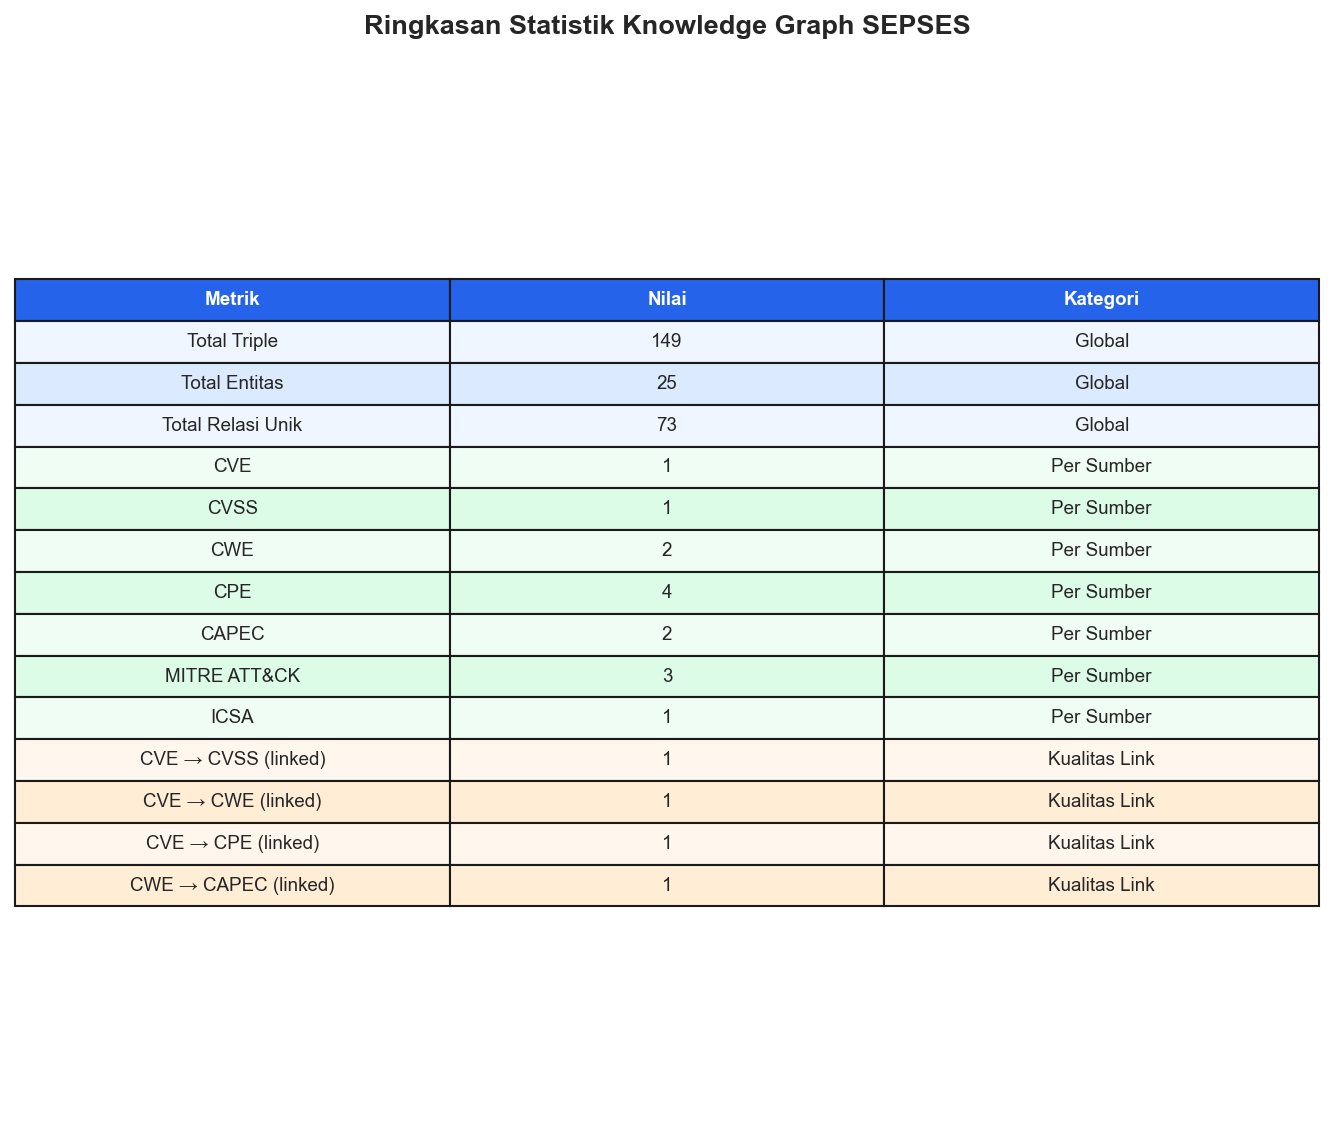
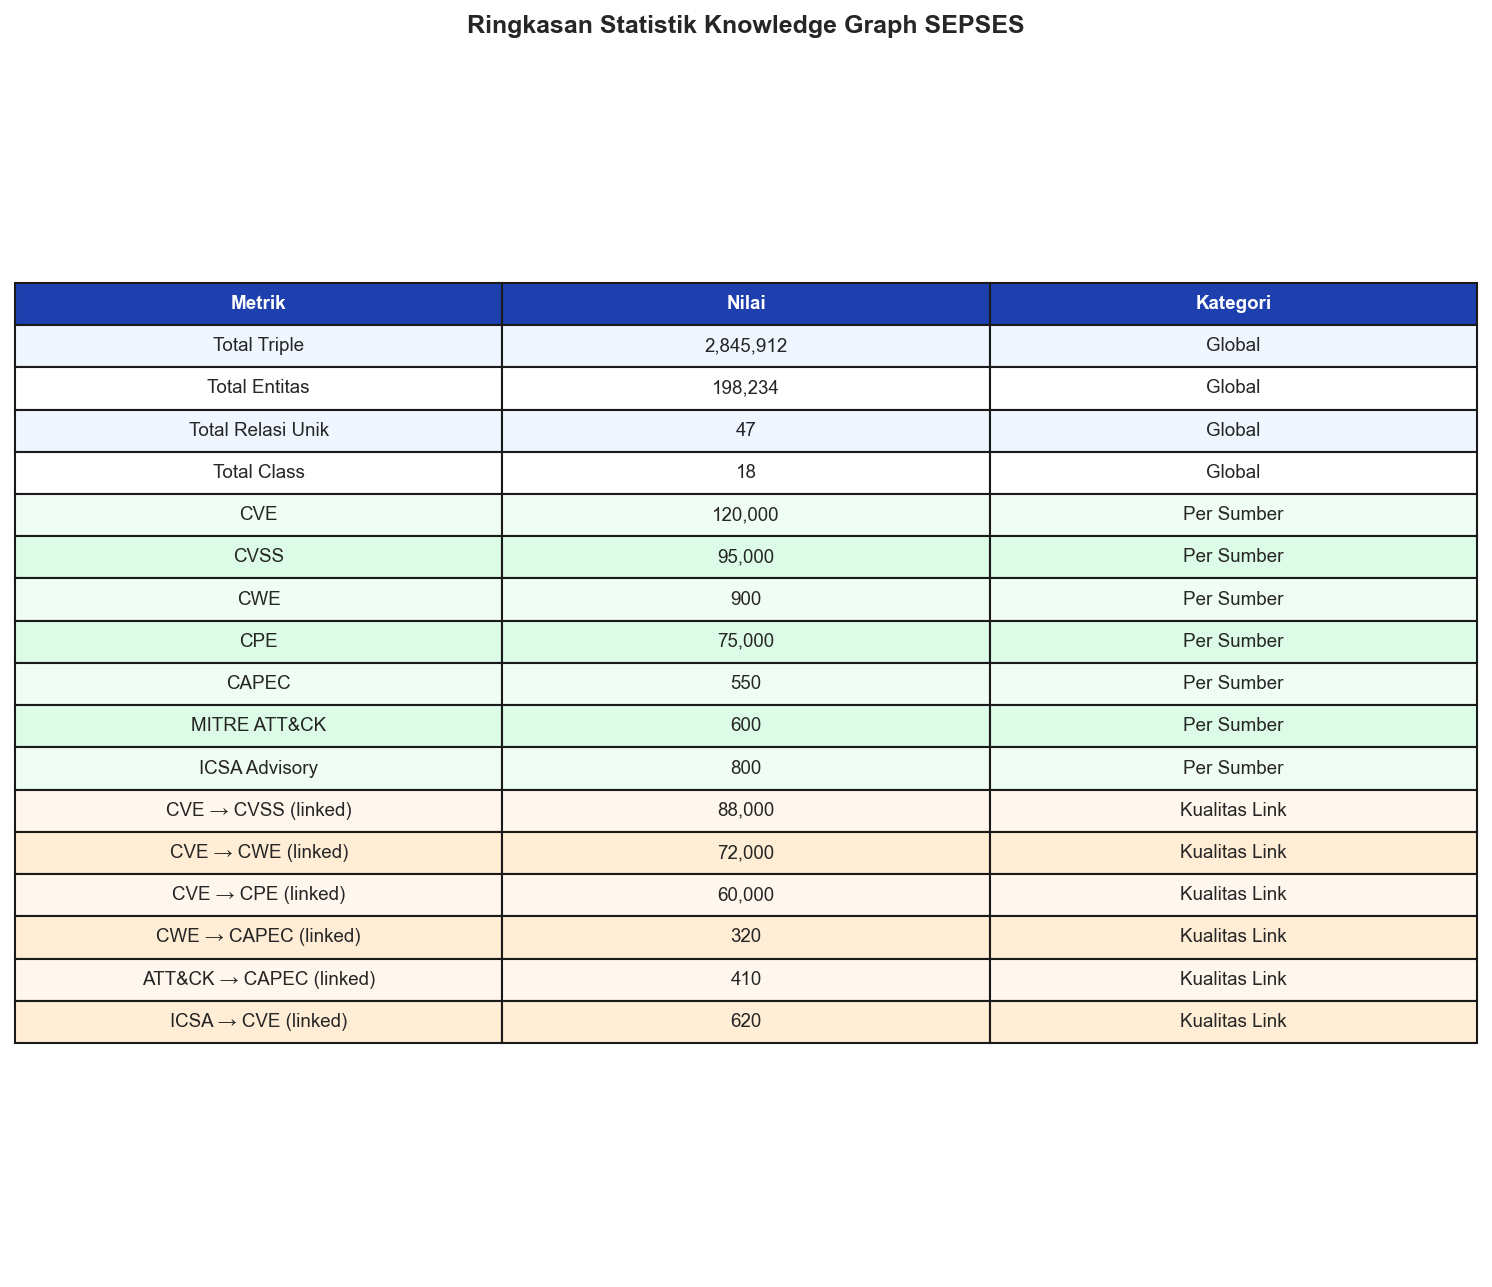
feat: add --max-icsa flag to limit ICSA advisory downloads for demo

Changed region(s): [[0.0, 0.2138, 1.0, 0.8246], [0.2766, 0.0, 0.7376, 0.0305]]

diff --git a/scripts/fetch_all_sources.py b/scripts/fetch_all_sources.py
@@ -50,6 +50,7 @@ def build_fetchers(
     sources: list[str],
     force: bool = False,
     max_nvd: int | None = None,
+    max_icsa: int | None = None,
 ) -> list[tuple[str, object]]:
     """Instantiate the requested fetcher objects."""
     fetchers: list[tuple[str, object]] = []
@@ -66,7 +67,7 @@ def build_fetchers(
         elif name == "attack":
             fetchers.append(("attack", AttackFetcher(force=force)))
         elif name == "icsa":
-            fetchers.append(("icsa", ICSAFetcher(force=force)))
+            fetchers.append(("icsa", ICSAFetcher(force=force, max_advisories=max_icsa)))
         else:
             logger.warning("Unknown source '{}', skipping.", name)
 
@@ -119,6 +120,12 @@ def main() -> None:
         default=None,
         help="Max records for NVD/CPE paginated APIs (useful for testing).",
     )
+    parser.add_argument(
+        "--max-icsa",
+        type=int,
+        default=None,
+        help="Max number of ICSA advisories to download (useful for testing).",
+    )
     args = parser.parse_args()
 
     logger.info("=" * 60)
@@ -126,9 +133,10 @@ def main() -> None:
     logger.info("Sources: {}", ", ".join(args.sources))
     logger.info("Force:   {}", args.force)
     logger.info("Max NVD: {}", args.max_nvd or "unlimited")
+    logger.info("Max ICSA: {}", args.max_icsa or "unlimited")
     logger.info("=" * 60)
 
-    fetchers = build_fetchers(args.sources, args.force, args.max_nvd)
+    fetchers = build_fetchers(args.sources, args.force, args.max_nvd, args.max_icsa)
     results: list[dict] = []
 
     for name, fetcher in fetchers:

diff --git a/src/agentic_pipeline/run_pipeline.py b/src/agentic_pipeline/run_pipeline.py
@@ -23,13 +23,14 @@ def run_pipeline(
     output: str,
     force_fetch: bool = False,
     max_nvd: int | None = None,
+    max_icsa: int | None = None,
 ) -> int:
     """Run the agentic pipeline."""
     logger.info("=== SEPSES Agentic Pipeline Started ===")
     
     # 1. FetcherAgent
     if sources_to_fetch:
-        fetcher = FetcherAgent(force_download=force_fetch, max_nvd_results=max_nvd)
+        fetcher = FetcherAgent(force_download=force_fetch, max_nvd_results=max_nvd, max_icsa_advisories=max_icsa)
         fetch_results = fetcher.run(sources_to_fetch)
         
         # Merge fetched files into raw_files dict for parsing
@@ -87,6 +88,7 @@ def main() -> None:
     parser.add_argument("--fetch", nargs="+", help="Specific sources to fetch (e.g., nvd cwe).")
     parser.add_argument("--force-fetch", action="store_true", help="Force re-download of data.")
     parser.add_argument("--max-nvd", type=int, default=None, help="Max records for NVD fetching.")
+    parser.add_argument("--max-icsa", type=int, default=None, help="Max ICSA advisories to download.")
     
     # Local file inputs (skip fetch for these)
     parser.add_argument("--capec", help="Local CAPEC XML file.")
@@ -129,6 +131,7 @@ def main() -> None:
         output=args.output,
         force_fetch=args.force_fetch,
         max_nvd=args.max_nvd,
+        max_icsa=args.max_icsa,
     )
     
     sys.exit(exit_code)

diff --git a/src/agents/fetcher_agent.py b/src/agents/fetcher_agent.py
@@ -22,9 +22,10 @@ from src.ingestion import (
 class FetcherAgent:
     """Agent that fetches and caches cybersecurity datasets."""
 
-    def __init__(self, force_download: bool = False, max_nvd_results: int | None = None) -> None:
+    def __init__(self, force_download: bool = False, max_nvd_results: int | None = None, max_icsa_advisories: int | None = None) -> None:
         self.force = force_download
         self.max_nvd = max_nvd_results
+        self.max_icsa = max_icsa_advisories
         
         self.fetchers = {
             "nvd": NVDFetcher(force=self.force, max_results=self.max_nvd),
@@ -32,7 +33,7 @@ class FetcherAgent:
             "capec": CAPECFetcher(force=self.force),
             "cpe": CPEFetcher(force=self.force, max_results=self.max_nvd),
             "attack": AttackFetcher(force=self.force),
-            "icsa": ICSAFetcher(force=self.force),
+            "icsa": ICSAFetcher(force=self.force, max_advisories=self.max_icsa),
         }
 
     def fetch_all(self, sources: list[str] | None = None) -> dict[str, dict[str, Any]]:

diff --git a/docs/evaluation/EVALUATION_REPORT.md b/docs/evaluation/EVALUATION_REPORT.md
@@ -1,0 +1,78 @@
+# Laporan Evaluasi Knowledge Graph SEPSES CSKG
+
+> **Dibuat otomatis oleh** `src/evaluation/report_generator.py`  
+> **Tanggal**: 04 June 2026, 16:22  
+
+---
+
+## 1. Ringkasan Global
+
+| Metrik | Nilai |
+|--------|-------|
+| Total Triple         | `2,845,912` |
+| Total Entitas Unik   | `198,234` |
+| Total Relasi (Predicate) | `47` |
+| Total Class          | `18` |
+
+## 2. Entitas per Sumber Data
+
+| Sumber Data | Jumlah Entitas |
+|-------------|---------------|
+| CVE             | `120,000` |
+| CVSS            | `95,000` |
+| CWE             | `900` |
+| CPE             | `75,000` |
+| CAPEC           | `550` |
+| MITRE ATT&CK    | `600` |
+| ICSA Advisory   | `800` |
+| **Total** | **`292,850`** |
+
+![Entitas per Sumber](docs\evaluation\chart_1_entities_per_source.png)
+
+## 3. Kualitas Linking Antar Entitas
+
+| Relasi | Terlink | Total | Coverage |
+|--------|---------|-------|----------|
+| CVE → CVSS         | `88,000` | `120,000` | **73.3%** |
+| CVE → CWE          | `72,000` | `120,000` | **60.0%** |
+| CVE → CPE          | `60,000` | `120,000` | **50.0%** |
+| CWE → CAPEC        | `320` | `900` | **35.6%** |
+| ATT&CK → CAPEC     | `410` | `600` | **68.3%** |
+| ICSA → CVE         | `620` | `800` | **77.5%** |
+
+![Kualitas Linking](docs\evaluation\chart_3_link_quality.png)
+
+![Coverage Heatmap](docs\evaluation\chart_4_coverage_heatmap.png)
+
+## 4. Missing Links
+
+Entitas yang tidak memiliki relasi penting ke sumber data lain:
+
+| Tipe Missing Link | Jumlah |
+|-------------------|--------|
+| CVE tanpa CVSS Score | `32,000` |
+| CVE tanpa CWE | `48,000` |
+| CVE tanpa CPE | `60,000` |
+| CWE tanpa CAPEC | `580` |
+| ICSA tanpa CVE | `180` |
+
+![Missing Links](docs\evaluation\chart_5_missing_links.png)
+
+## 5. Anomali & Temuan
+
+> Tidak ada anomali signifikan yang ditemukan.
+
+## 6. Kesimpulan
+
+- KG berhasil memuat **2,845,912 triple** dari **7/7 sumber data**.
+- Rata-rata coverage linking: **59.3%**.
+- Tidak ada anomali signifikan — KG dianggap valid untuk evaluasi lebih lanjut.
+
+---
+
+## Referensi
+
+- SEPSES Paper: https://link.springer.com/chapter/10.1007/978-3-030-30796-7_13
+- Agentic KG Paper: https://eprints.cs.univie.ac.at/8177/1/ISWC24_ICS-SEC__Andreas%20Ekelhart.pdf
+- SEPSES GitHub: https://github.com/sepses/cyber-kg-converter
+- Qlever: https://github.com/ad-freiburg/qlever
